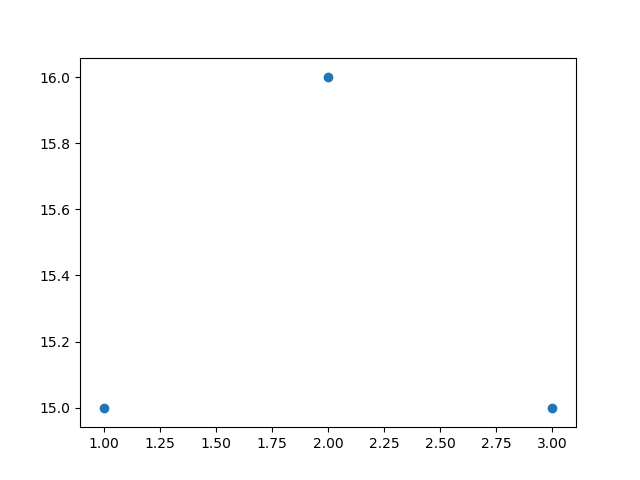
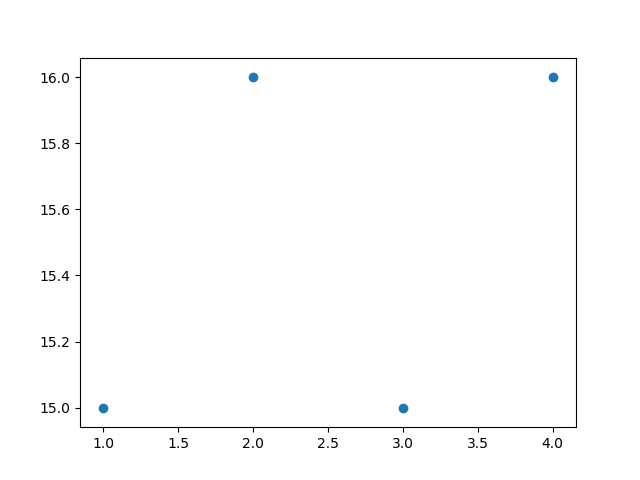
jd-update

diff --git a/pub/menu2.html b/pub/menu2.html
@@ -1,7 +1,7 @@
 <!doctype html> <html lang=en > <meta charset=UTF-8 > <meta name=viewport  content="width=device-width, initial-scale=1"> <link rel=stylesheet  href="/libs/katex/katex.min.css"> <link rel=stylesheet  href="/css/judoc.css"> <link rel=stylesheet  href="/css/basic.css"> <link rel=icon  href="/assets/infra/favicon.png"> <title>pure JuDoc</title> <header> <div class=blog-name ><a href="">Basic Template</a></div> <nav> <ul> <li><a href="/">Discourse thread</a> <li><a href="/pub/menu2.html">pure JuDoc</a> <li><a href="/pub/menu3.html">Menu 3</a> </ul> <img src="/assets/infra/hamburger.svg" id=menu-icon > </nav> </header> <div class=jd-content > <h1><a id=my-attempt-with-pure-judoc  href="#my-attempt-with-pure-judoc">My attempt with pure JuDoc</a></h1> <p>This leaves a small inlined code part:</p> <pre><code class="julia hljs"></code></pre>
  <img src="/assets/oldfaithful/plot.png" alt="the plot" /></p>
 <p>The &quot;output&quot; is also shown as code &#40;which is fine, but not what I want&#41; 
-<pre><code class=hljs>The average is:15.333333333333334
+<pre><code class=hljs>The average is:15.5
 </code></pre>
 
 <h2><a id=usage  href="#usage">Usage</a></h2>
